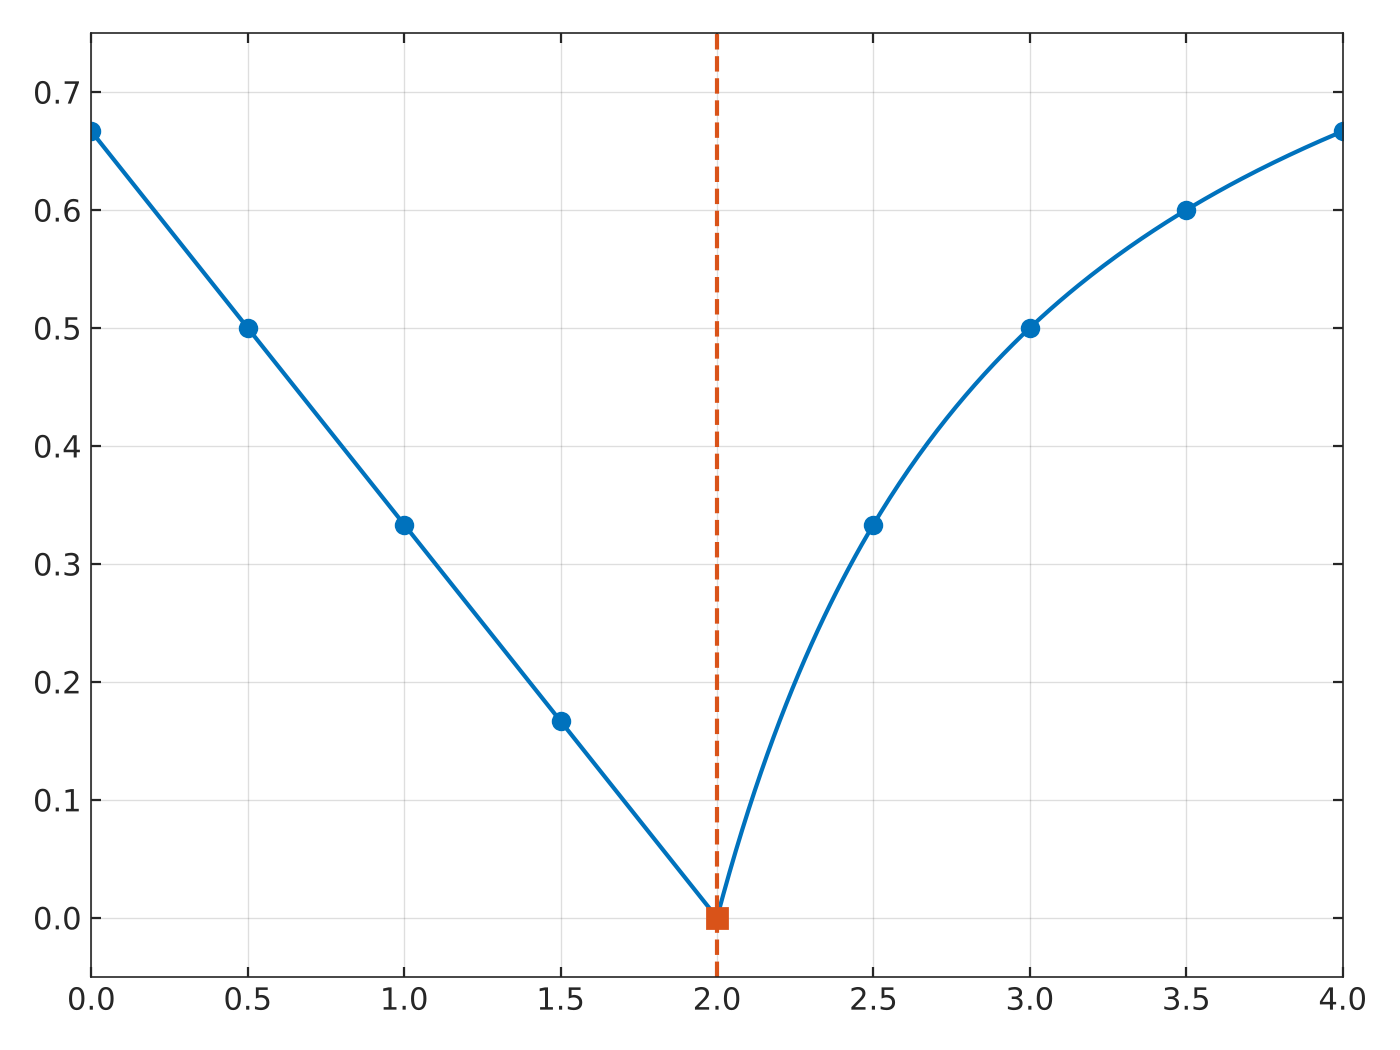
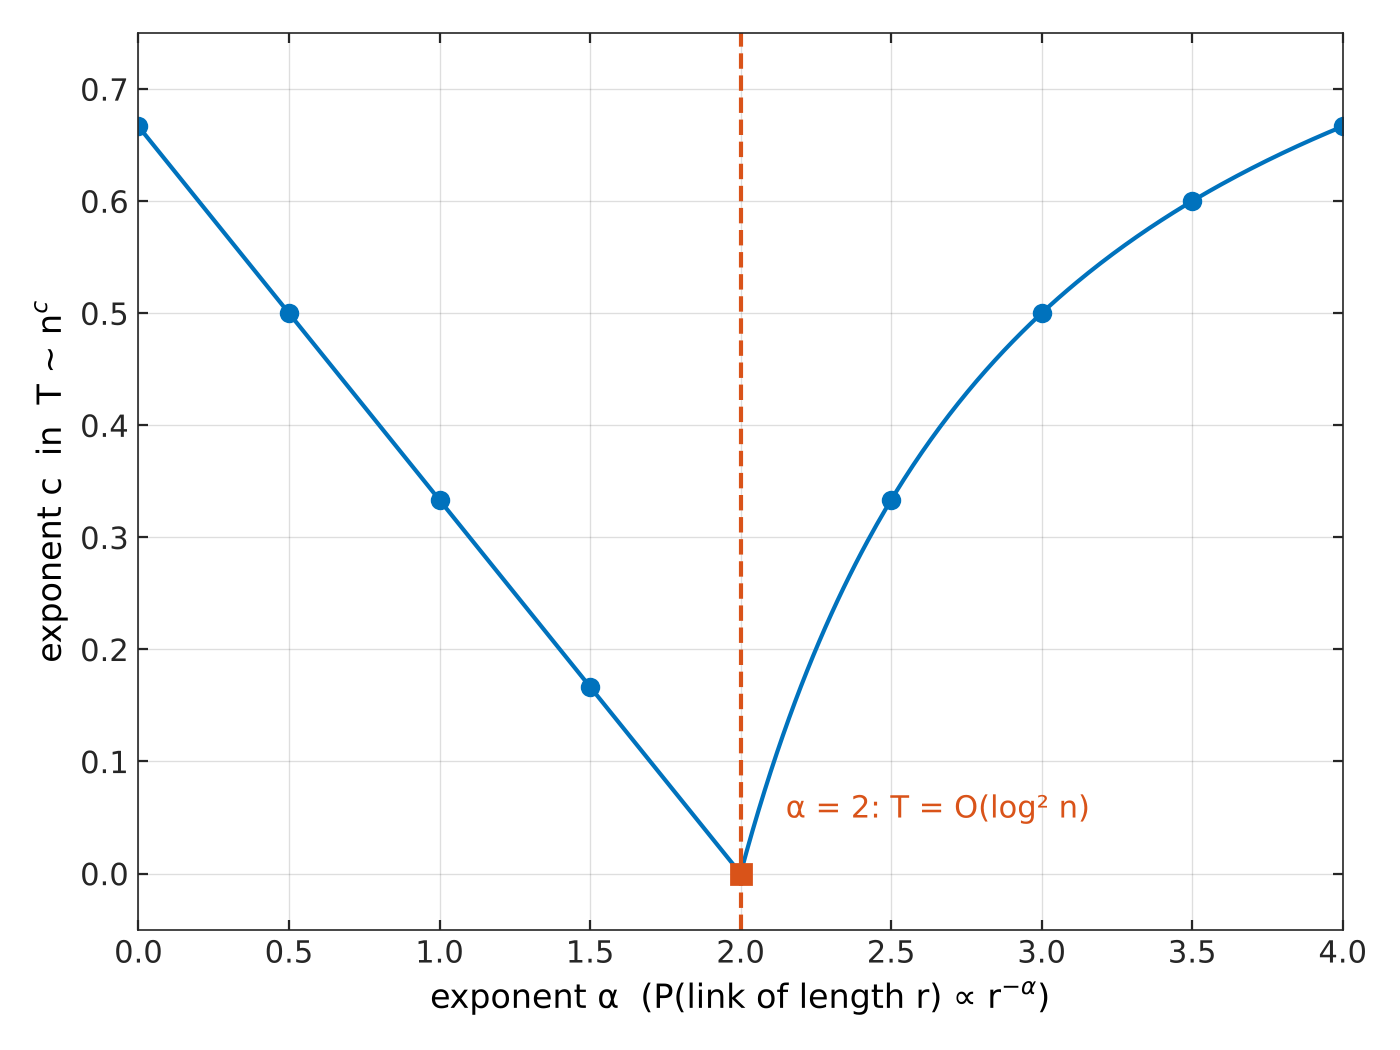
Add axis labels and legends

diff --git a/python/plots.py b/python/plots.py
@@ -1,6 +1,5 @@
 """
-All figures in a MATLAB-like style, without titles, legends or axis labels
-(those were added by hand on the slides).
+All figures in a MATLAB-like style, with axis labels.
 
 Writes to ../figures/:
     ws_clustering_path_length.png   C(p)/C(0) and L(p)/L(0) vs p
@@ -34,7 +33,7 @@ DARK = (0.15, 0.15, 0.15)
 GREY = (0.6, 0.6, 0.6)
 
 plt.rcParams.update({
-    "font.family": "DejaVu Sans", "font.size": 11,
+    "font.family": "DejaVu Sans", "font.size": 11, "axes.labelsize": 12,
     "xtick.direction": "in", "ytick.direction": "in",
     "xtick.top": True, "ytick.right": True, "axes.linewidth": 0.6,
 })
@@ -79,6 +78,9 @@ def plot_ws():
     ax.set_yticks([0, 0.2, 0.4, 0.6, 0.8, 1])
     ax.grid(True, which="major", color=DARK, alpha=0.15, lw=0.5)
     ax.grid(True, which="minor", color=DARK, alpha=0.08, lw=0.4, ls=":")
+    ax.set_xlabel("rewiring probability p")
+    ax.set_ylabel("normalised value")
+    ax.legend(["C(p) / C(0)", "L(p) / L(0)"], loc="lower left", frameon=True, edgecolor=DARK)
     style(ax, grid=False)
     save(fig, "ws_clustering_path_length.png")
 
@@ -112,6 +114,10 @@ def plot_kleinberg_grid():
     ax.set_ylim(-0.5, 5.5)
     ax.set_xticks(range(6))
     ax.set_yticks(range(6))
+    ax.text(0.15, -0.35, "s", fontsize=14, fontweight="bold", color=BLUE)
+    ax.text(4.65, 5.15, "t", fontsize=14, fontweight="bold", color=ORANGE)
+    ax.set_xlabel("lattice column")
+    ax.set_ylabel("lattice row")
     style(ax, grid=False)
     save(fig, "kleinberg_grid.png")
 
@@ -132,6 +138,9 @@ def plot_kleinberg_alpha():
     ax.set_ylim(-0.05, 0.75)
     ax.set_xticks(np.arange(0, 4.01, 0.5))
     ax.set_yticks(np.arange(0, 0.71, 0.1))
+    ax.set_xlabel("exponent α  (P(link of length r) ∝ r$^{-α}$)")
+    ax.set_ylabel("exponent c  in  T ~ n$^c$")
+    ax.annotate("α = 2: T = O(log² n)", xy=(2, 0), xytext=(2.15, 0.05), color=ORANGE)
     style(ax)
     save(fig, "kleinberg_phase_transition.png")
 
@@ -160,6 +169,9 @@ def plot_epidemic():
     ax.set_ylim(0, 105)
     ax.set_xticks(range(0, 61, 10))
     ax.set_yticks(range(0, 101, 20))
+    ax.set_xlabel("time step t")
+    ax.set_ylabel("infected [%]")
+    ax.legend(["p = 0", "p = 0.01", "p = 0.1"], loc="lower right", frameon=True, edgecolor=DARK)
     style(ax)
     save(fig, "si_epidemic.png")
 
@@ -177,6 +189,9 @@ def plot_greedy():
     ax.set_ylim(0, 50)
     ax.set_xticks(step)
     ax.set_yticks(range(0, 51, 10))
+    ax.set_xlabel("step in chain")
+    ax.set_ylabel("share of choices [%]")
+    ax.legend(["closer geographically", "similar occupation"], loc="upper left", frameon=True, edgecolor=DARK)
     style(ax)
     save(fig, "greedy_search_dodds.png")
 

diff --git a/matlab/kleinberg_phase_transition.m b/matlab/kleinberg_phase_transition.m
@@ -22,4 +22,5 @@ hold off;
 xlim([0 4]); ylim([-0.05 0.75]);
 set(gca, 'XTick', 0:0.5:4, 'YTick', 0:0.1:0.7);
 grid on; box on;
-% xlabel('\alpha'); ylabel('c in T \sim n^c');
+xlabel('exponent \alpha  (P(link of length r) \propto r^{-\alpha})'); ylabel('exponent c  in  T \sim n^c');
+text(2.15, 0.05, '\alpha = 2: T = O(log^2 n)', 'Color', orange);

diff --git a/matlab/greedy_search_dodds.m b/matlab/greedy_search_dodds.m
@@ -17,4 +17,5 @@ hold off;
 xlim([0.8 7.2]); ylim([0 50]);
 set(gca, 'XTick', 1:7, 'YTick', 0:10:50);
 grid on; box on;
-% xlabel('step in chain'); ylabel('% of choices'); legend('location', 'occupation');
+xlabel('step in chain'); ylabel('share of choices [%]');
+legend('closer geographically', 'similar occupation', 'Location', 'northwest');

diff --git a/matlab/kleinberg_grid.m b/matlab/kleinberg_grid.m
@@ -37,3 +37,6 @@ axis equal;
 xlim([-0.5 n-0.5]); ylim([-0.5 n-0.5]);
 set(gca, 'XTick', 0:n-1, 'YTick', 0:n-1);
 box on;
+text(0.15, -0.35, 's', 'FontSize', 14, 'FontWeight', 'bold', 'Color', blue);
+text(4.65, 5.15, 't', 'FontSize', 14, 'FontWeight', 'bold', 'Color', orange);
+xlabel('lattice column'); ylabel('lattice row');

diff --git a/matlab/si_epidemic.m b/matlab/si_epidemic.m
@@ -22,4 +22,5 @@ hold off;
 xlim([0 60]); ylim([0 105]);
 set(gca, 'XTick', 0:10:60, 'YTick', 0:20:100);
 grid on; box on;
-% xlabel('time step'); ylabel('infected [%]'); legend('p = 0', 'p = 0.01', 'p = 0.1');
+xlabel('time step t'); ylabel('infected [%]');
+legend('p = 0', 'p = 0.01', 'p = 0.1', 'Location', 'southeast');

diff --git a/matlab/ws_clustering_path_length.m b/matlab/ws_clustering_path_length.m
@@ -17,4 +17,5 @@ hold off;
 
 xlim([1e-4 1]); ylim([0 1.05]);
 grid on; box on;
-% xlabel('p'); ylabel('normalised value'); legend('C(p)/C(0)', 'L(p)/L(0)');
+xlabel('rewiring probability p'); ylabel('normalised value');
+legend('C(p) / C(0)', 'L(p) / L(0)', 'Location', 'southwest');

diff --git a/README.md b/README.md
@@ -54,7 +54,7 @@ python plots.py            # writes all figures to ../figures/
 
 ### MATLAB
 
-Open any script in `matlab/` and run it. Each one is self-contained (data are embedded) and produces one figure. Axis labels and legends are commented out at the end of every script, so you can enable them or label the figure yourself.
+Open any script in `matlab/` and run it. Each one is self-contained (data are embedded) and produces one labelled figure.
 
 ## Results
 
